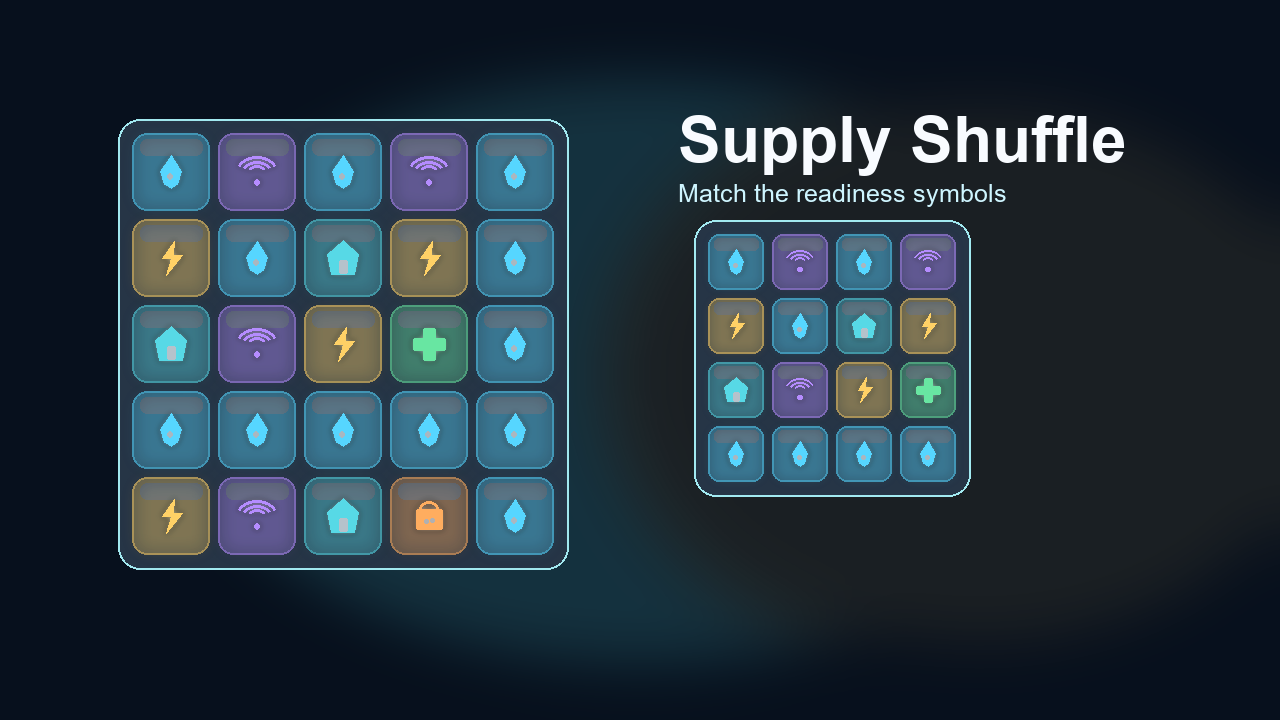
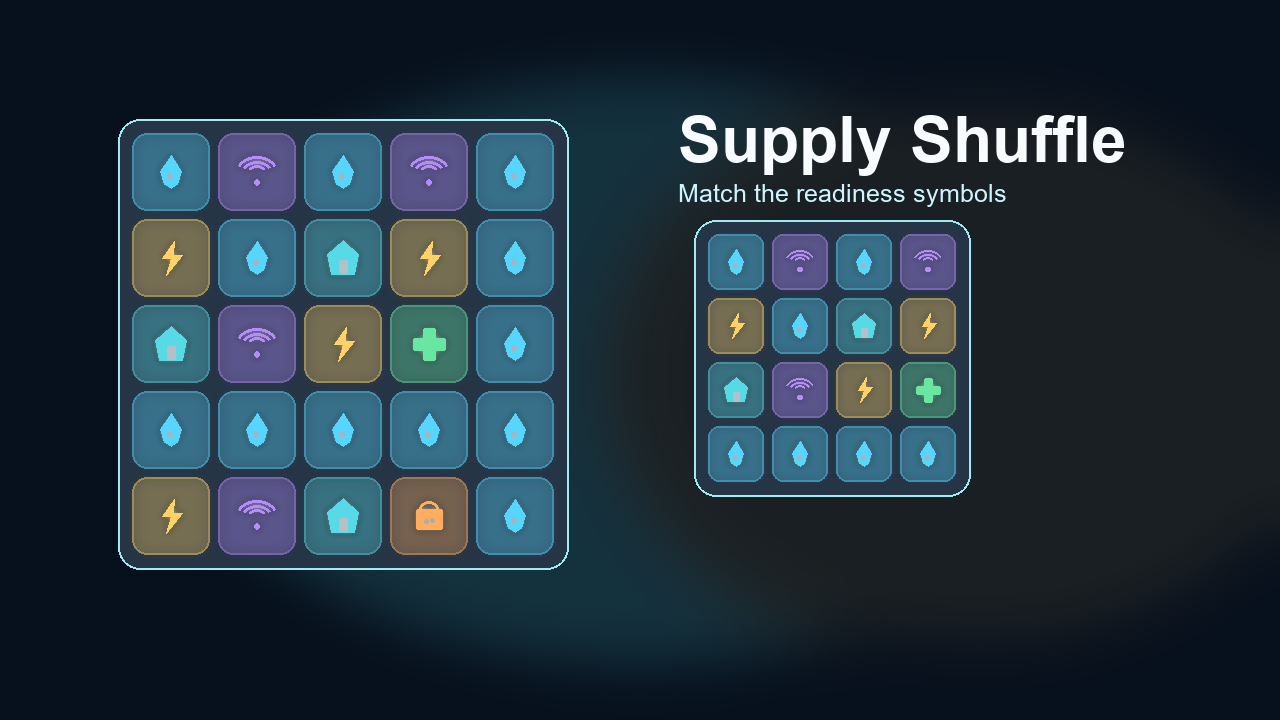
Flatten Supply Shuffle tile containers

diff --git a/games/supply-shuffle/module.js b/games/supply-shuffle/module.js
@@ -814,24 +814,14 @@ export function mountGame(session, options = {}) {
         ctx.translate(x + size / 2 + invalidWobble, y + size / 2);
         ctx.scale(1 + pulse, 1 + pulse);
         ctx.shadowColor = definition.color;
-        ctx.shadowBlur = invalid ? 18 : Math.max(4, layout.cellSize * 0.13);
-        const tileGradient = ctx.createLinearGradient(-size / 2, -size / 2, size / 2, size / 2);
-        tileGradient.addColorStop(0, hexToRgba(definition.color, 0.42));
-        tileGradient.addColorStop(0.48, "rgba(248, 251, 255, .15)");
-        tileGradient.addColorStop(1, hexToRgba(definition.color, 0.2));
-        ctx.fillStyle = tileGradient;
+        ctx.shadowBlur = invalid ? 18 : Math.max(3, layout.cellSize * 0.09);
+        ctx.fillStyle = hexToRgba(definition.color, 0.28);
         roundRect(-size / 2, -size / 2, size, size, Math.max(7, size * 0.22));
         ctx.fill();
         ctx.shadowBlur = 0;
         ctx.strokeStyle = hexToRgba(definition.color, invalid ? 0.9 : 0.52);
         ctx.lineWidth = Math.max(1.4, size * 0.035);
         ctx.stroke();
-
-        ctx.globalAlpha = 0.28;
-        ctx.fillStyle = "#ffffff";
-        roundRect(-size * 0.38, -size * 0.39, size * 0.76, size * 0.2, Math.max(4, size * 0.1));
-        ctx.fill();
-        ctx.globalAlpha = 1;
 
         drawTileSymbol(definition.symbol, size * 0.82, definition.color, definition.accent);
 